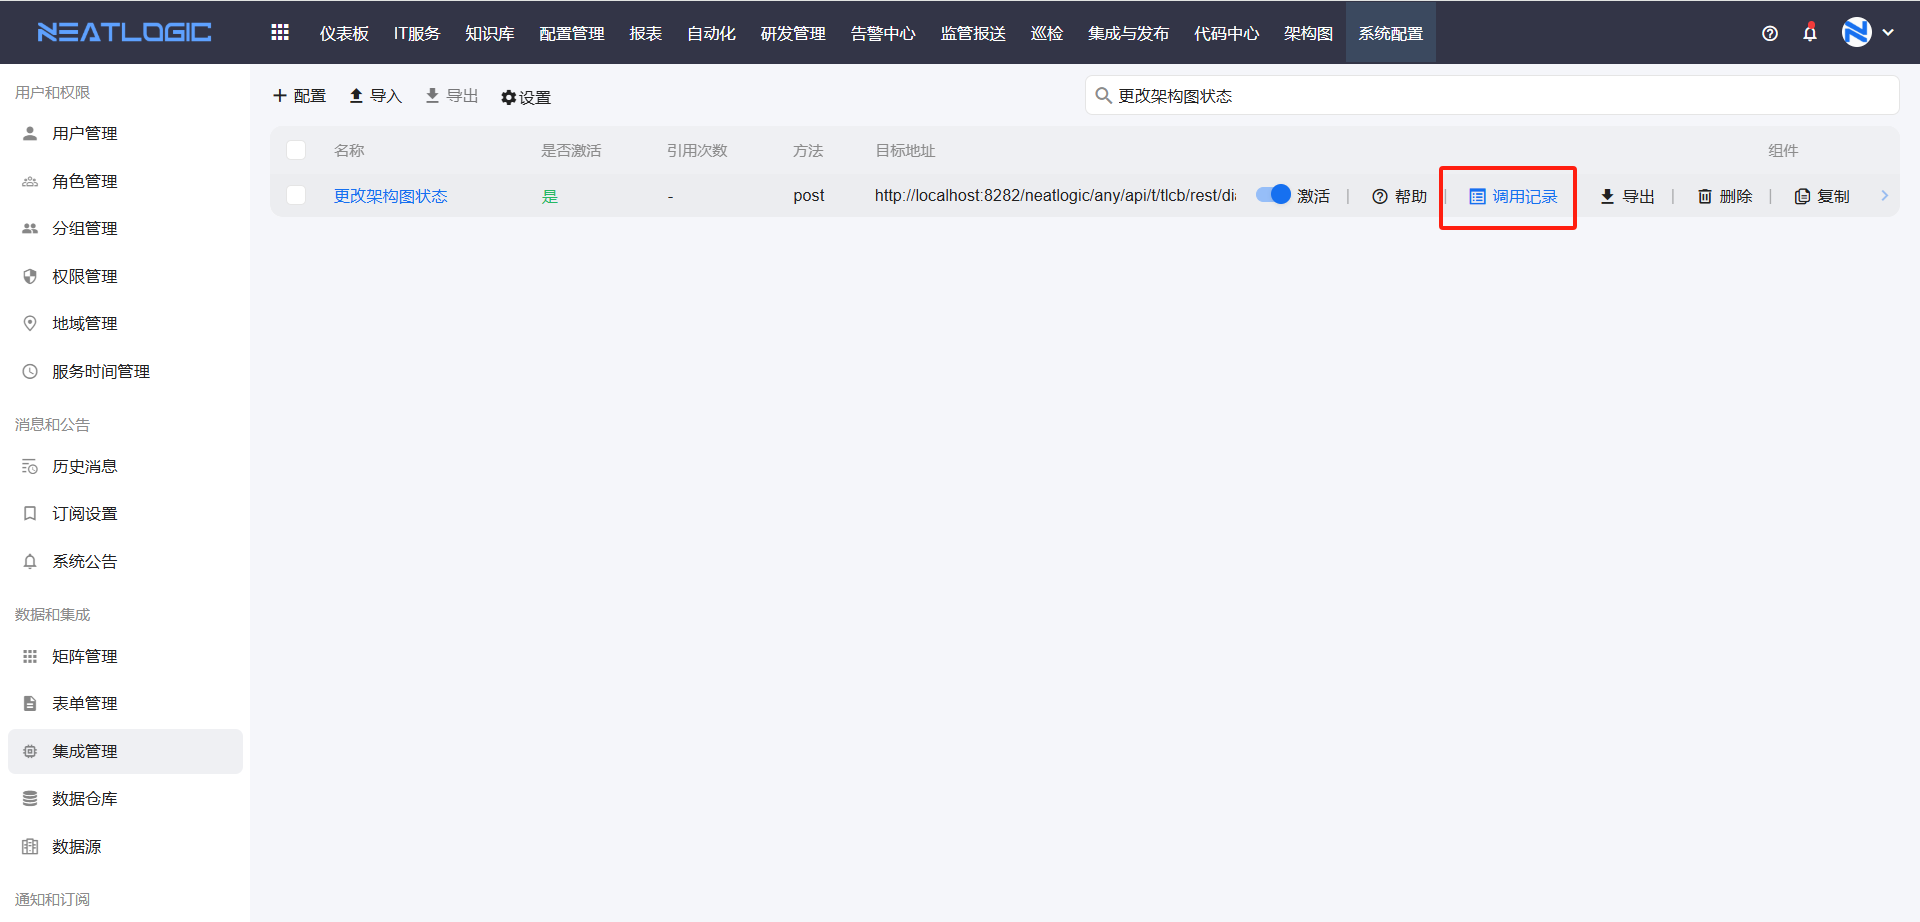
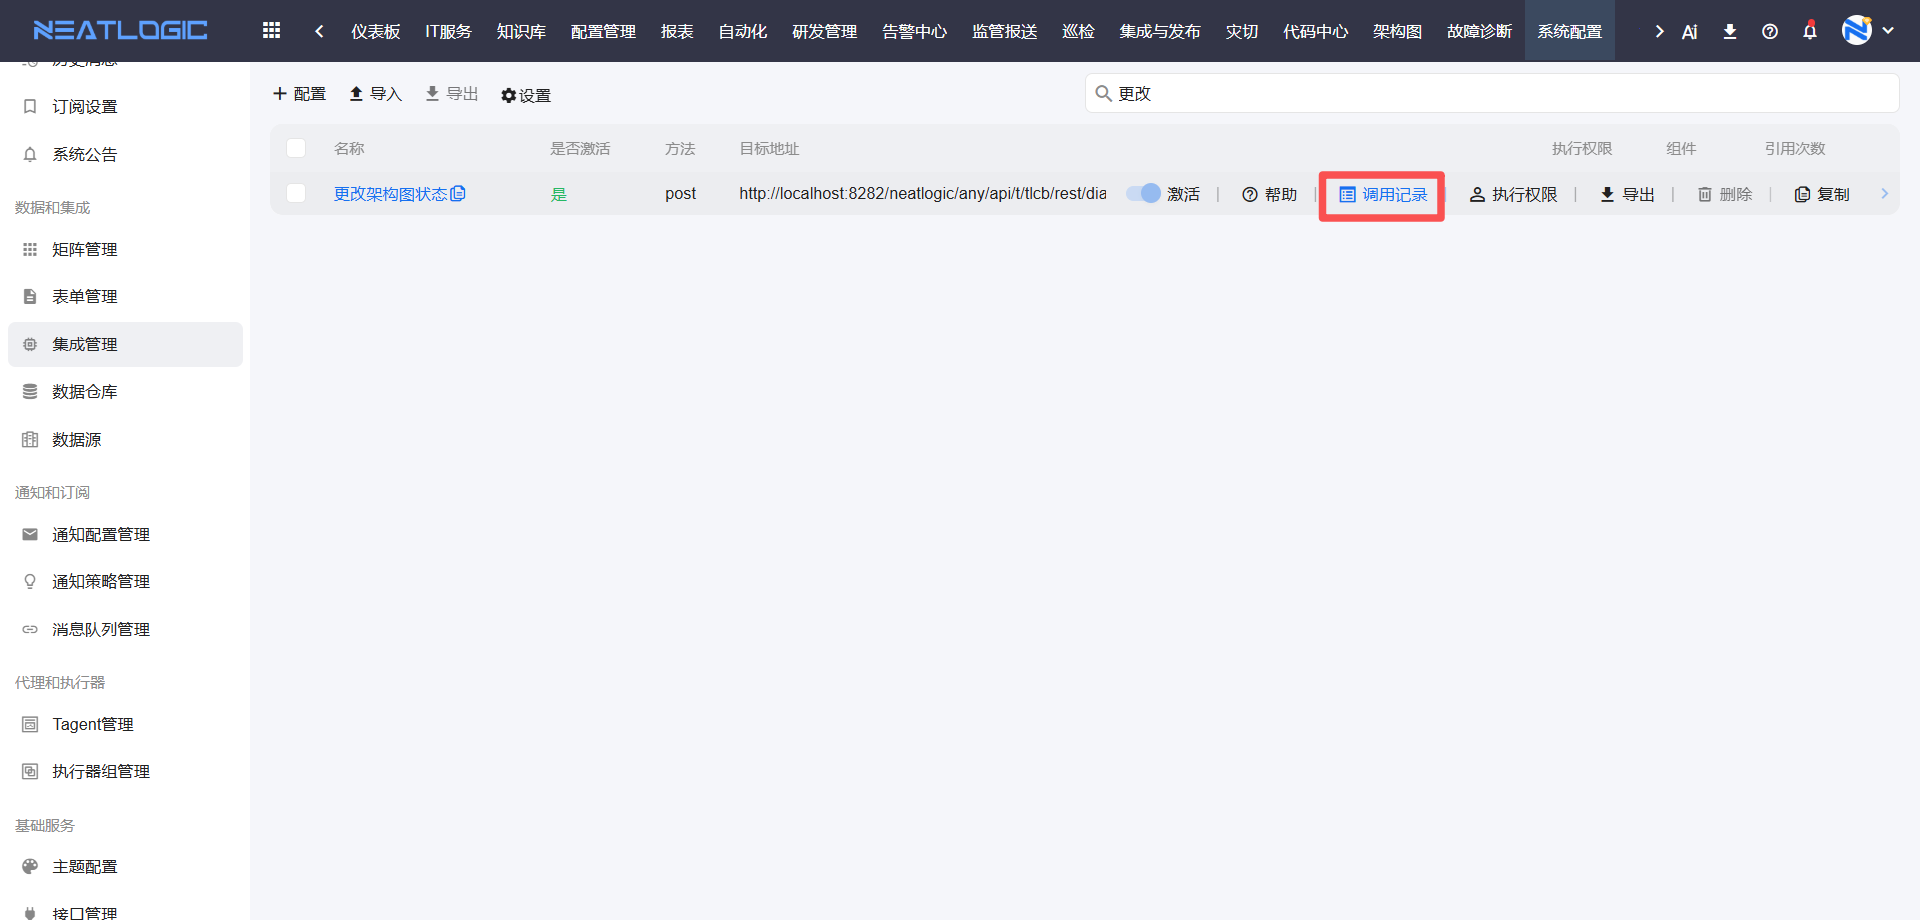
更新集成管理

diff --git a/src/main/resources/neatlogic/resources/documentonline/zh/100.系统配置/3.数据和集成/集成管理.md b/src/main/resources/neatlogic/resources/documentonline/zh/100.系统配置/3.数据和集成/集成管理.md
@@ -1,21 +1,35 @@
 # 集成管理
-集成管理是管理自定义接口调用配置的页面，有四种数据规范类型分别应用于不同场景，分别是自定义、矩阵数据规范、表单外部数据源查询、发布触发器数据规范。
+
+集成管理是用于配置和管理自定义接口调用的功能页面。它提供了四种数据规范类型，分别适用于不同的业务场景：**自定义**、**矩阵数据规范**、**表单外部数据源查询**和**发布触发器数据规范**。除数据规范外，集成配置还包含**目标地址**和**请求设置**等核心内容。
+
 ![](images/集成管理_数据规范.png)
-配置内容除了数据规范，还包括目标地址、请求设置。
 
-## 数据规范
-数据规范是定义接口的输入和输出参数格式，选择数据规范后，请求设置的输入转换或输出转换会根据所选规范显示对应的提示。
+## 1. 数据规范
 
-### 自定义
-应用场景：
-1. 流程编辑页，流程或节点的动作设置
+数据规范用于定义接口的输入和输出参数格式。选择不同的数据规范后，请求设置中的“输入转换”或“输出转换”区域会根据所选规范显示相应的配置提示。
+
+### 1.1. 自定义
+
+自定义数据规范允许用户完全自主定义接口的输入输出格式，灵活性最高。
+
+**应用场景：**
+
+1. **流程编辑页**：用于流程或节点的动作设置。
+   
    ![](images/集成管理_流程动作设置.gif)
-2. 流程编辑页，自动处理节点
+
+2. **流程编辑页**：用于自动处理节点的动作设置。
+   
    ![](images/集成管理_节点动作设置.png)
-### 矩阵数据规范
-应用于外部数据源矩阵，必须按照系统提示的格式配置输入和输出的转换脚本。
+
+### 1.2. 矩阵数据规范
+
+该规范应用于**外部数据源矩阵**场景。使用时，必须按照系统规定的输入和输出格式编写转换脚本。
+
 ![](images/集成管理_矩阵.png)
-输入规范
+
+**输入规范格式：**
+
 ```
 {
   "keyword": "字符串",
@@ -32,7 +46,9 @@
   ]
 }
 ```
-输出规范
+
+**输出规范格式：**
+
 ```
 {
   "currentPage": 0,
@@ -55,10 +71,15 @@
 }
 ```
 
-### 发布触发器数据规范
-应用于集成预发布模块的webhook配置，若输入参数不符合提示输入规范，必须设置输入转换。
-   ![](images/集成管理_自动发布webhook.png)
-输入规范
+
+### 1.3. 发布触发器数据规范
+
+该规范应用于**集成预发布模块的 Webhook 配置**。如果实际使用的输入参数与系统规定的输入规范不符，则必须通过“输入转换”功能进行调整。
+
+![](images/集成管理_自动发布webhook.png)
+
+**输入规范格式：**
+
 ```
 {
   "appSystemId": "长整数",
@@ -74,26 +95,66 @@
 }
 ```
 
-## 请求设置
+## 2. 请求设置
 
-### 认证
-集成配置的接口支持四种认证方式，有无需认证、内部认证、basic认证和Bearer Token认证。访问内部接口时，才可使用内部认证。
+### 2.1. 认证方式
+
+集成配置的接口支持四种认证方式，可根据目标接口的要求选择合适的类型：
+
+- **无需认证**：接口不要求任何身份验证。
+- **内部认证**：仅用于访问系统内部接口。
+- **Basic 认证**：标准的 HTTP Basic 认证。
+- **Bearer Token 认证**：基于 Token 的认证方式。
+
 ![](images/集成管理_认证类型.gif)
 
-### 参数说明
-参数说明是用于定义输入和输出参数的，只有数据规范为“自定义”时，才能由用户自定义输入和输出参数，其他类型数据规范，接口的输入和输出参数都是系统规定的。
+> 注意：仅当访问系统内部接口时，才可使用“内部认证”方式。
+
+### 2.2. 参数说明
+
+“参数说明”用于定义接口的输入和输出参数。需要特别注意的是：只有数据规范为**“自定义”**时，用户才可以在参数说明中自由定义输入和输出参数。对于其他类型的数据规范，接口的输入输出参数格式由系统固定，不可自定义。
+
 ![](images/集成管理_参数说明.png)
 
-### 输入转换和输出转换
-应用场景中使用的输入参数的数据格式不符合接口入参所需要的格式，可以通过输入转换来实现。如果接口输出参数的数据格式不符合系统指定场景参数的数据格式，就可以通过输出转换来实现。
+### 2.3. 输入转换与输出转换
+
+- **输入转换**：当业务场景提供的输入参数格式与目标接口期望的入参格式不一致时，可通过编写转换脚本进行格式适配。
+- **输出转换**：当接口返回的输出参数格式与系统指定场景所要求的数据格式不一致时，可通过编写转换脚本进行格式适配。
+
 ![](images/集成管理_输入参数转换.png)
 ![](images/集成管理_输出参数转换.png)
-### 测试
-可在测试输入框中输入参数进行接口测试，验证输出结果是否满足场景需求。
+
+### 2.4. 接口测试
+
+配置完成后，可在“测试”功能中输入测试参数，向目标接口发起真实调用并查看返回结果。这有助于在正式使用前验证接口配置和转换逻辑的正确性，确保输出结果满足业务场景需求。
+
 ![](images/集成管理_测试.gif)
 
-## 调用记录
-集成配置中有调用记录，记录每次发起的日志，包括请求来源、发起时间、状态、入参、结果和异常等信息。
+## 3. 调用记录
+
+集成配置页面提供了**调用记录**功能，用于记录每次接口调用的历史日志。记录信息包括：请求来源、发起时间、执行状态、输入参数、返回结果以及异常信息等。
+
 ![](images/集成管理_调用记录.png)
-调用记录支持查看参数、结果和异常详情，还支持根据用户、状态、发起时间范围和入参过滤。
+
+调用记录支持多维度的查看和筛选：
+
+- **查看详情**：可分别查看某次调用的参数、结果和异常详情。
+- **条件过滤**：支持根据用户、执行状态、发起时间范围以及输入参数内容进行检索。
+
 ![](images/集成管理_过滤调用记录.png)
+
+## 4. 权限说明
+
+集成管理的使用涉及两类权限控制：
+
+### 4.1. 菜单权限
+
+用户需要被授予系统权限中的 **“集成管理权限”**，才能看到并进入集成管理功能菜单。
+
+![](images/集成管理_菜单权限.png)
+
+### 4.2. 集成配置的执行权限
+
+用户仅拥有菜单权限是不够的。若要成功执行需要调用某集成配置的操作（如流程动作），还必须被授予该集成配置的 **“执行权限”**。否则，调用将失败。
+
+![](images/集成管理_执行权限.png)
